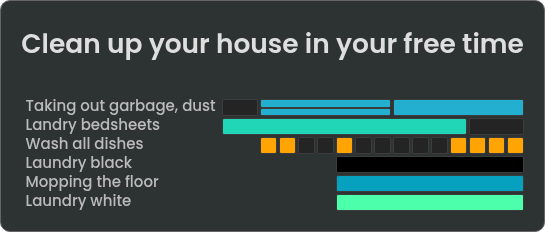
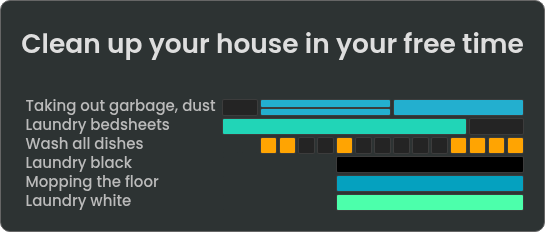
fix: typo and adjust related project images

Changed region(s): [[0.0624, 0.5129, 0.3119, 0.5733]]

diff --git a/frontend/src/assets/mockProjectsData.js b/frontend/src/assets/mockProjectsData.js
@@ -151,7 +151,7 @@ const mockProjectsData = {
       color: '#23AFCF',
     },
     {
-      name: 'Landry bedsheets',
+      name: 'Laundry bedsheets',
       data: [1, 0],
       cell_length: [13, 3],
       target: [1, 1],
